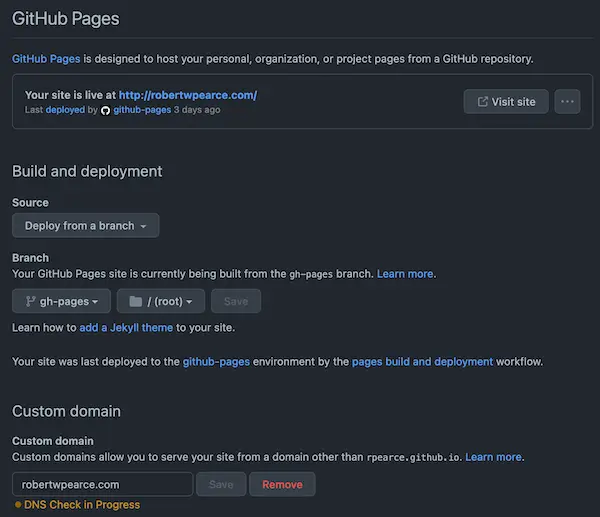
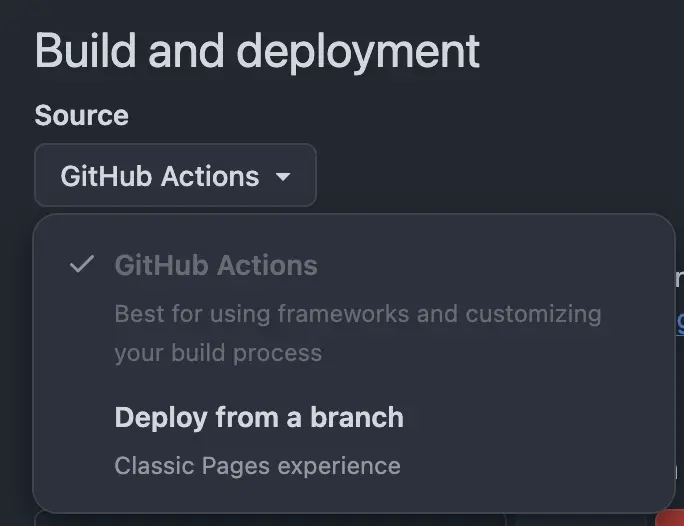
Reshoot the GitHub Pages screenshot for Actions-based deploys
The old screenshot showed the Pages source set to "Deploy from a branch"
with a gh-pages branch, which no longer matches how the template deploys, so
it was pulled from the post with a note to retake it.

The new one shows the Source dropdown open with "GitHub Actions" selected
and "Deploy from a branch" below it, which reads better for anyone who
followed the old version of this tutorial and is coming back to switch.

diff --git a/src/posts/2023-02-12-hakyll-nix-template-tutorial.md b/src/posts/2023-02-12-hakyll-nix-template-tutorial.md
@@ -524,8 +524,14 @@ deployment`, set the `Source` to `GitHub Actions`. That's the whole thing —
 there's no branch or directory to pick anymore, since the workflow hands your
 built site to GitHub directly.
 
-<!-- TODO(rpearce): reshoot ./images/hnt-gh-pages.webp showing
-     Source = "GitHub Actions" and re-add the screenshot here -->
+<img
+  alt="The GitHub Pages 'Build and deployment' source dropdown, open, with 'GitHub Actions' selected and 'Deploy from a branch' beneath it"
+  decoding="async"
+  height="526"
+  loading="lazy"
+  src="./images/hnt-gh-pages.webp"
+  width="684"
+/>
 
 Don't skip this one! Until you flip that setting, your `deploy` job will fail,
 because your repository isn't expecting deploys from Actions yet.
